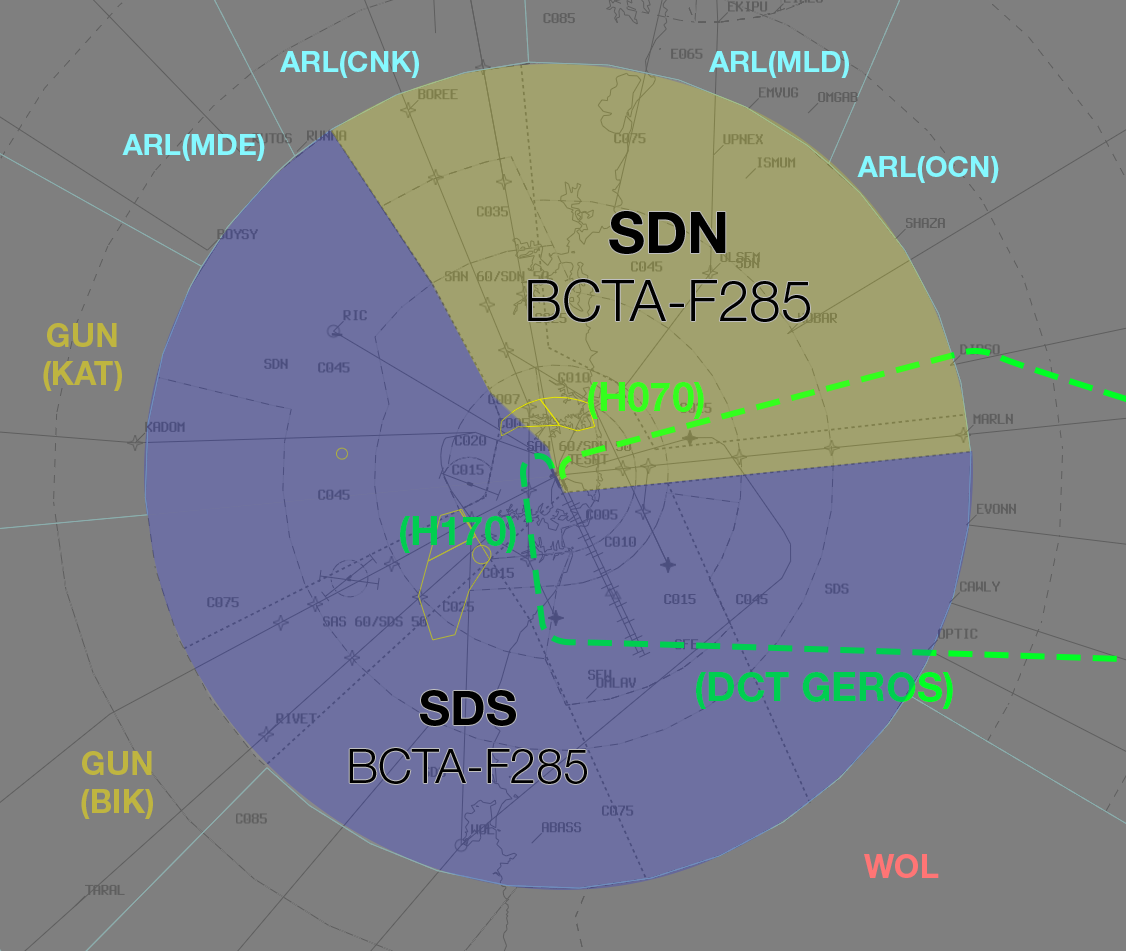
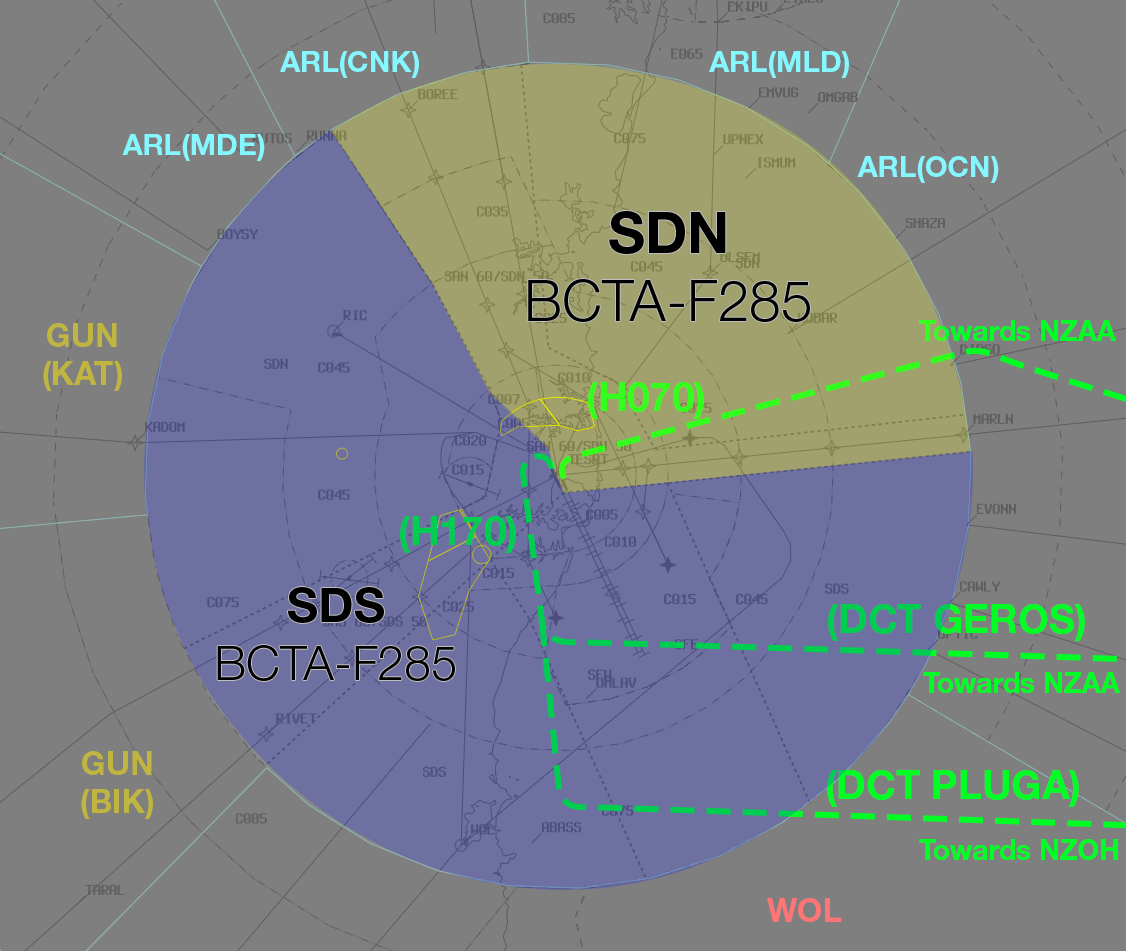
Update SY departure procedure

diff --git a/docs/events/worldflight/Aerodromes/sydneydep.md b/docs/events/worldflight/Aerodromes/sydneydep.md
@@ -73,14 +73,23 @@ Work through the OzStrips Preactive bay from *bottom to top* when sending PDCs.
 By default, assign aircraft the departure runway that corresponds to their departure apron (ie, **16L/34R** on *East* Apron, **16R/34L** on *West* Apron).
 
 #### NZOH Exception
-Aircraft with ADES **NZOH** shall be assigned Runway **34L** or **16L**, regardless of departure apron.
+Aircraft with ADES **NZOH** shall be assigned Runway **16R** or **34L**, regardless of departure apron.
 
 ### SID Selection
 The **SY3** RADAR SID will be in use for all Runways.
 
+**SY-C_DEL** shall enter the appropriate assigned heading into the OzStrips [Departure Heading field](../../../client/towerstrips.md#strips) when assigning the SID, in accordance with the table below:
+
+| Runway | Assigned Heading |
+| ---------- | --- |
+|  16L  | H140 |
+|  16R  | ADES **NZAA**: H320<br>ADES **NZOH**: H170 |
+|  34L  | H170 |
+|  34R  | H070 |
+
 ### Departure Frequency
-Departures from Runway 16R and 34L shall be given the SDN frequency (123.0).  
-Departures from Runway 16L and 34R shall be given the SDS frequency (129.7).
+Departures from Runway 16R and 34L shall be given the SDN frequency (**123.0**).  
+Departures from Runway 16L and 34R shall be given the SDS frequency (**129.7**).
 
 ### PDCs
 PDCs will be in use by default, to avoid frequency congestion. ACD shall send a PDC to each aircraft as they connect, prioritising those who connected first. Upon successful readback of the PDC, ACD shall direct the pilot to contact Coordinator when ready for pushback or taxi.
@@ -143,6 +152,19 @@ When workload (and holding point congestion) allows, issue pushback to the **bot
 !!! warning "Important"
     It is preferable to hold aircraft on the bay (where they aren't blocking taxiways or burning their holding fuel) when congestion leads to blocked holding points. Issue pushback with enough lead time to prevent large gaps in the departure sequence.
 
+### Non-Standard Taxiway Usage
+To faciliate departures from both runways, during **34 PROPS**, the following taxiways shall be utilised exclusively for their listed purpose:
+
+| Taxiway | Usage |
+| --- | --- |
+| B | Southbound for **RWY 34L** only |
+| C | Southbound for **RWY 34R** only |
+
+!!! warning "Important"
+    As a result of these taxiway usage assignments, it will not be possible to taxi arriving aircraft to the apron during 34 PROPS.
+
+    Enroute controllers will strongly encourage any inbound aircraft to divert, but should an aircraft land, they should be instructed to disconnect on, or after vacating, the runway.
+
 ### A388 Taxi Routes
 The YSSY `Aerodrome Ground Movement Chart` specifies taxi routes for A388 aircraft. These must be **disregarded** for the event, and standard taxiways must be used for A388 aircraft to facilitate orderly flow of traffic.
 
@@ -170,9 +192,12 @@ Aircraft assigned the **SY3** RADAR SID shall be assigned a heading in accordanc
 | Runway | Assigned Heading |
 | ---------- | --- |
 |  16L  | H140 |
-|  16R  | H320 |
+|  16R  | ADES **NZAA**: H320<br>ADES **NZOH**: H170 |
 |  34L  | H170 |
 |  34R  | H070 |
+
+!!! note
+    **SY-C_DEL** will enter the relevant assigned heading into the OzStrips [Departure Heading field](../../../client/towerstrips.md#strips) when formatting the strip. Ensure the assigned heading is correct, paying particular attention to departures from runway 16R.
 
 ### Runway Vacating Instructions
 To avoid creating conflict for SMC, ADC shall instruct all arriving aircraft to vacate via the following exits when issued a landing clearance:
@@ -198,7 +223,7 @@ Standard as per [YSSY Local Instructions](../../../../aerodromes/classc/Sydney/#
 
 - Departure SID: **SY3** RADAR
 - 16L Standard Assignable Departure Heading: **H140**
-- 16R Standard Assignable Departure Heading: **H320**
+- 16R Standard Assignable Departure Heading: **H320** (for ADES NZAA), or **H170** (for ADES NZOH)
 - 34L Standard Assignable Departure Heading: **H170**
 - 34R Standard Assignable Departure Heading: **H070**
 

diff --git a/docs/events/worldflight/Terminal Areas/sydneydep.md b/docs/events/worldflight/Terminal Areas/sydneydep.md
@@ -7,7 +7,7 @@
 ## Airspace Division
 Non-Standard airspace division will be in use.
 
-The **dashed** green lines represent the *suggested vectors* for [SY3 departures](#sy3-departures).
+The **dashed** green lines represent the suggested vectors for [SY3 departures](#sy3-departures).
 
 ### 16 PROPS
 
@@ -24,24 +24,32 @@ The **dashed** green lines represent the *suggested vectors* for [SY3 departures
 </figure>
 
 ## SY3 Departures
-Departures from 16R/34L/34R will be assigned the **SY3** SID with an assigned heading in accordance with the table below:
+Departures from all runways will be assigned the **SY3** SID with an assigned heading in accordance with the table below:
 
-| Departure Runway | Assigned Heading |
-| --- | --- |
-| 16R | H320 |
-| 34L | H170 |
-| 34R | H070 |
+| Runway | Assigned Heading |
+| ---------- | --- |
+|  16L  | H140 |
+|  16R  | ADES **NZAA**: H320<br>ADES **NZOH**: H170 |
+|  34L  | H170 |
+|  34R  | H070 |
 
-Aircraft shall be subsequently processed with the following tracking instructions:
+Aircraft for **NZAA** shall be subsequently processed with the following tracking instructions:
 
 | Departure Runway | Tracking Instructions |
 | --- | --- |
-| 16L | Via the SID to EVONN |
-| 16R | **H320** until north of YSSY, then **H100** |
-| 34L | **H170** until approx 20DME, then **H115** |
-| 34R | **H070** until approx 20DME, then **H105** |
+| 16L | **H140** until approx 30DME, then **DCT GEROS** |
+| 16R | **H320** until approx 15DME, then **H070** |
+| 34L | **H170** until approx 20DME, then **H070** |
+| 34R | **H070** |
 
-Aircraft shall be handed off to OCN assigned the **final heading** in the table above (or via the SID for 16L departures).
+Aircraft for **NZOH** shall be subsequently processed with the following tracking instructions:
+
+| Departure Runway | Tracking Instructions |
+| --- | --- |
+| 16R | **H170** until south of the NZAA stream, then **DCT PLUGA** |
+| 34L | **H170** until south of the NZAA stream, then **DCT PLUGA** |
+
+Aircraft shall be handed off to OCN assigned the **final instruction** in the tables above.
 
 ## WorldFlight Teams
 [WorldFlight Teams](../../../../#official-team-callsigns) will be highlighted by default and should receive priority at all stages of flight.
@@ -56,8 +64,9 @@ Aircraft shall be handed off to OCN assigned the **final heading** in the table 
 #### Auto Release
 Standard as per [SY TCU Local Instructions](../../../../../../terminal/sydney/#sy-adc), with the exception of:
 
-- 16R/34L/34R Departure SID: **SY3** RADAR
-- 16R Standard Assignable Departure Heading: **H320**
+- Departure SID: **SY3** RADAR
+- 16L Standard Assignable Departure Heading: **H140**
+- 16R Standard Assignable Departure Heading: **H320** (for ADES NZAA), or **H170** (for ADES NZOH)
 - 34L Standard Assignable Departure Heading: **H170**
 - 34R Standard Assignable Departure Heading: **H070**
 
@@ -65,7 +74,7 @@ Standard as per [SY TCU Local Instructions](../../../../../../terminal/sydney/#s
 Voiceless for all aircraft:
 
 - Assigned the lower of `F280` or the `RFL`; and  
-- Tracking via **EVONN**; or  
-- Assigned **H105** or **H115**
+- Tracking via **GEROS** or **PLUGA**; or  
+- Assigned **H070**
 
 All other aircraft going to OCN CTA will be **Heads-up** Coordinated.

diff --git a/docs/events/worldflight/Enroute/leg1.md b/docs/events/worldflight/Enroute/leg1.md
@@ -6,13 +6,18 @@
 
 ## Sector Responsibilities
 ### Ocean (OCN)
-OCN will receive two flows from SY TCU. These flows much be merged by GEROS.
+OCN will receive two NZAA-bound flows from SY TCU. These flows must be merged by GEROS.
 
 !!! warning Important
     Ensure adequate vertical separation exists between nearby aircraft and provide proactive level assignments if necessary to maintain separation assurance for all downstream sectors.
 
+OCN will also receive a single NZOH-bound flow from SY TCU, positioned south of the NZAA flows.
+
 ### Tasman (TSN)
 TSN will have temporary surveillance coverage provided by additional floating ADS-B stations in the sector. Normal surveillance separation standards may be used between all identified aircraft.
+
+### All Other Sectors
+Due to the sheer volume of traffic departing from YSSY, arrivals will **not be possible** during the departure event. Any aircraft inbound to YSSY should be strongly encouraged to divert to another aerodrome.
 
 ## WorldFlight Teams
 [WorldFlight Teams](../../../../#official-team-callsigns) will be highlighted by default and should receive priority at all stages of flight.
@@ -27,8 +32,8 @@ TSN will have temporary surveillance coverage provided by additional floating AD
 Voiceless for all aircraft:
 
 - Assigned the lower of `F280` or the `RFL`; and  
-- Tracking via **EVONN**; or  
-- Assigned **H105** or **H115**
+- Tracking via **GEROS** or **PLUGA**; or  
+- Assigned **H070**
 
 All other aircraft going to OCN CTA will be **Heads-up** Coordinated.
 
